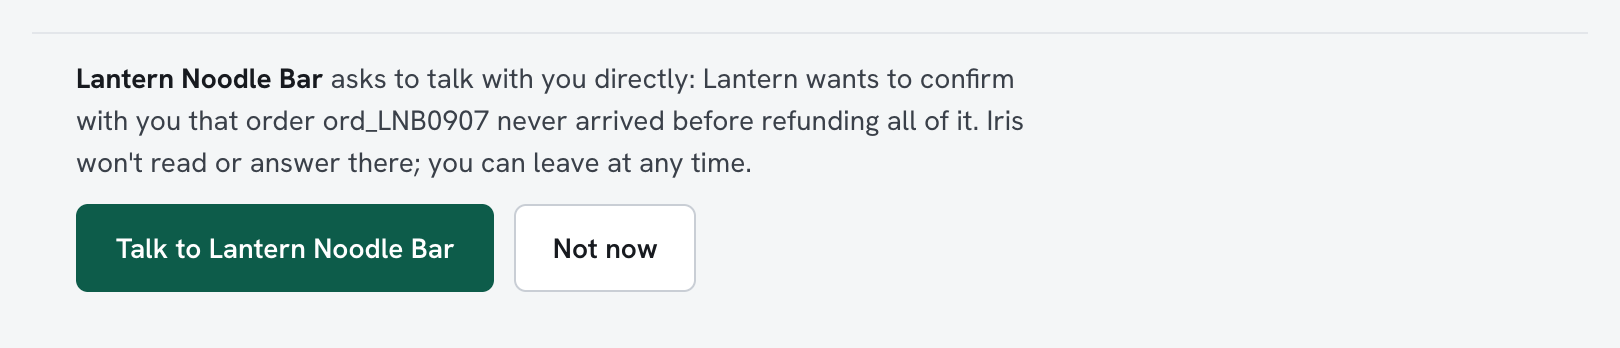
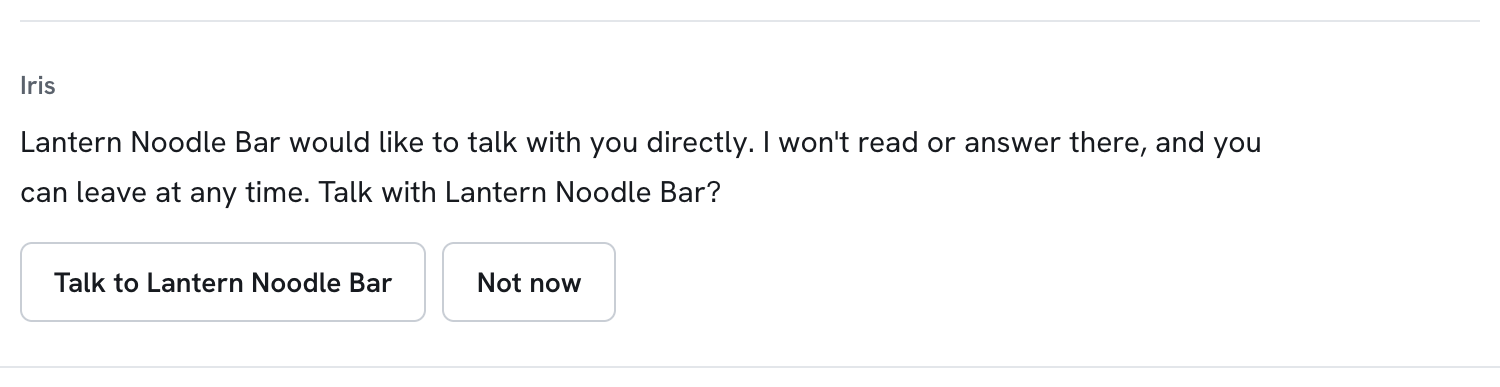
Show the invitation as Iris's question in Talking to the company yourself
Lantern's invitation is now a block in the conversation with Iris's own question, which Elena answers yes to; the refund is a card where it arrived, and Iris's notices are quoted as the live lab writes them. While the Direct Conversation is open Iris asks no approval question, so the approval stays the press of the button. Every image is retaken on 28 November; step 8 no longer shows a further question to Lantern.

diff --git a/docs/learn/how-it-works/talking-to-the-company-yourself.md b/docs/learn/how-it-works/talking-to-the-company-yourself.md
@@ -9,7 +9,8 @@ answers for her.
 
 This page follows that conversation screen by screen: Lantern's invitation,
 Elena's answer, the refund Lantern proposes, her approval, and her return to
-Iris. Every screenshot is from the live lab, taken on 26 November 2026. Before
+Iris. Every screenshot is from the live lab at
+[poppylab.dev](https://poppylab.dev), taken on 28 November 2026. Before
 it starts, Elena has signed in at Lantern and allowed Iris to propose changes,
 the two consents shown in [Changing an order](changing-an-order.md). The lab
 ran in demo mode, which answers its guided examples without an AI model, so
@@ -27,7 +28,7 @@ Iris sent a fixed report when Elena said that her order never arrived.
 
 ### 1. Report the order that never arrived
 
-![Elena writes that her last order never arrived. Lantern's agent answers that refunding all of order ord_LNB0907 needs a word with her first, and a card above the message box offers to talk to Lantern Noodle Bar](../../../apps/playground/public/learn-media/how-it-works/talking-to-the-company-yourself/01-report-the-order.webp "Lantern's agent does not refund the order. It asks to talk with the customer.")
+![Elena writes that her last order never arrived. Lantern's agent answers that refunding all of order ord_LNB0907 needs a word with her first. Iris then asks whether she wants to talk with Lantern Noodle Bar directly, with the buttons Talk to Lantern Noodle Bar and Not now](../../../apps/playground/public/learn-media/how-it-works/talking-to-the-company-yourself/01-report-the-order.webp "Lantern's agent does not refund the order. It asks to talk with the customer.")
 
 Elena writes: "My last order never arrived." Iris asks Lantern's own agent for
 her orders, finds the last delivery, and reports that none of it arrived.
@@ -79,29 +80,30 @@ talk:
 
 ### 2. Lantern asks, Elena decides
 
-![The card above the message box: Lantern Noodle Bar asks to talk with you directly, with its reason, and two buttons, Talk to Lantern Noodle Bar and Not now](../../../apps/playground/public/learn-media/how-it-works/talking-to-the-company-yourself/02-invitation.webp "The invitation gives Lantern's reason in Lantern's words, and Elena chooses.")
+![Iris says: Lantern Noodle Bar would like to talk with you directly. I won't read or answer there, and you can leave at any time. Talk with Lantern Noodle Bar? Two buttons read Talk to Lantern Noodle Bar and Not now](../../../apps/playground/public/learn-media/how-it-works/talking-to-the-company-yourself/02-invitation.webp "The invitation comes as Iris's question in the conversation, and Elena chooses.")
 
-The invitation sits above the message box, apart from the conversation. It
-gives Lantern's reason and says what accepting means: Iris will not read or
-answer there, and Elena can leave at any time.
+The invitation is a block of its own in the conversation, under Lantern's
+answer, which gives Lantern's reason in its words. Iris asks: "Lantern Noodle
+Bar would like to talk with you directly. I won't read or answer there, and
+you can leave at any time. Talk with Lantern Noodle Bar?"
 
-Lantern can ask for this conversation and cannot open it. Iris also asks in
-the chat whether Elena wants to talk with Lantern. The conversation opens when
-she presses the button or answers "yes", and Iris does not open one without
-her. If she chooses Not
+Lantern can ask for this conversation and cannot open it. The conversation
+opens when Elena presses the button or answers "yes", and Iris does not open
+one without her. If she chooses Not
 now, Iris tells Lantern that she is not available, and Lantern's agent answers
 with its phone number and the option of reporting the missing dishes one by
 one.
 
 ### 3. Accept the invitation
 
-![Lantern's first message in the direct conversation asks whether none of order ord_LNB0907 arrived. Iris says it does not read or answer here. A yellow bar says Elena is talking with Lantern Noodle Bar directly](../../../apps/playground/public/learn-media/how-it-works/talking-to-the-company-yourself/03-accepted.webp "Lantern speaks first. The message box now writes to Lantern.")
+![Elena answers yes. Lantern's first message in the direct conversation asks whether none of order ord_LNB0907 arrived, marked Direct, without Iris. Iris says: You're talking with Lantern Noodle Bar directly now. I don't read or answer here: what you type goes to Lantern Noodle Bar as your own words](../../../apps/playground/public/learn-media/how-it-works/talking-to-the-company-yourself/03-accepted.webp "Lantern speaks first. The message box now writes to Lantern.")
 
-Elena presses Talk to Lantern Noodle Bar. Lantern speaks first, with one
+Elena answers "yes" to Iris's question. Lantern speaks first, with one
 question: did none of the order arrive?
 
-The screen changes to show who Elena is writing to. Iris says once that it
-doesn't read or answer here. A yellow bar stays above the
+The screen changes to show who Elena is writing to. Iris says once: "You're
+talking with Lantern Noodle Bar directly now. I don't read or answer here:
+what you type goes to Lantern Noodle Bar as your own words." A yellow bar stays above the
 message box for as long as the Direct Conversation is open, the box itself
 reads "Message Lantern Noodle Bar", and every message in this conversation
 carries the label Direct, without Iris.
@@ -132,7 +134,7 @@ shows the requests.
 
 ### 4. Answer in your own words
 
-![Elena's answer, yes, is labelled You to Lantern Noodle Bar, Direct, without Iris. Lantern answers that it can refund 37 dollars once she approves, and a panel titled Needs you appears](../../../apps/playground/public/learn-media/how-it-works/talking-to-the-company-yourself/04-question-and-answer.webp "Elena's answer goes to Lantern as she typed it. Lantern answers with a refund that waits for her.")
+![Elena's answer, yes, is labelled You to Lantern Noodle Bar, Direct, without Iris. Lantern answers that it can refund 37 dollars once she approves, and a card from Lantern Noodle Bar below reads Waiting for you: Review refund, 37 dollars](../../../apps/playground/public/learn-media/how-it-works/talking-to-the-company-yourself/04-question-and-answer.webp "Elena's answer goes to Lantern as she typed it. Lantern answers with a refund that waits for her.")
 
 Elena types "yes". The line is headed "You → Lantern Noodle Bar": it went to
 Lantern as she wrote it, marked as written by a person. Iris did not rephrase
@@ -142,18 +144,19 @@ either.
 Lantern's agent reads one thing here, a yes or a no to the question it asked,
 and only from the customer herself. On yes it answers that it can refund the
 37 dollars, and that it will do so once she approves. The refund arrives as
-terms in a panel called Needs you, the same panel as for a change proposed
-through the API.
+terms on a card in the conversation, the same card as for a change proposed
+through the API. Iris asks no question about it here, because Iris does not
+read or answer in the Direct Conversation.
 
 ### 5. Read what you are approving
 
-![The approval panel: Review refund, approval required, the amount of 37 dollars in large type, Lantern's description, the exact terms with two shoyu ramen and one pork gyoza, an expiry time, and the buttons Approve and Decline](../../../apps/playground/public/learn-media/how-it-works/talking-to-the-company-yourself/05-exact-terms.webp "The terms come from Lantern. Elena approves these and no others.")
+![The proposal card: Review refund, waiting for you, the amount of 37 dollars in large type, Lantern's description, an expiry time, and the buttons Approve 37 dollars and Decline](../../../apps/playground/public/learn-media/how-it-works/talking-to-the-company-yourself/05-exact-terms.webp "The terms come from Lantern. Elena approves these and no others.")
 
-The panel shows what Lantern will do if Elena approves: refund all of order
-ord_LNB0907, both ramen and the gyoza, to the card used for the order. The
+The card shows what Lantern will do if Elena approves: refund all of order
+ord_LNB0907 to the card used for the order. All exact terms, one click away,
+lists both ramen and the gyoza. The
 amount, 37 dollars, stands at the top in large type. The paragraph that begins
 "Lantern Noodle Bar says" is the company's own description, shown as written.
-All exact terms is opened in the screenshot.
 
 Talking to Lantern directly changes nothing about approvals. This one covers
 this revision of the terms and no other, and it was good for ten minutes.
@@ -178,12 +181,12 @@ step 4:
 
 ### 6. Approve
 
-![Under the conversation the entry Review refund now reads Completed. Without being opened it shows what Lantern says, Refunded 37 dollars for order ord_LNB0907, and the line Approved by you](../../../apps/playground/public/learn-media/how-it-works/talking-to-the-company-yourself/06-approved.webp "Lantern refunded the order when the approval arrived, and said so.")
+![The card Review refund now reads Approved by you. Without being opened it shows what Lantern says, Refunded 37 dollars for order ord_LNB0907](../../../apps/playground/public/learn-media/how-it-works/talking-to-the-company-yourself/06-approved.webp "Lantern refunded the order when the approval arrived, and said so.")
 
 Elena presses Approve $37.00. Iris sends Lantern her approval for exactly
 those terms, in the same Direct Conversation. Lantern checks it, makes the
-refund and confirms it. The panel becomes an entry marked Completed. Without
-being opened, the entry shows Lantern's confirmation and who approved.
+refund and confirms it. The card stays where it arrived and reads Approved
+by you. Without being opened, it shows Lantern's confirmation.
 
 The approval is the press of the button. In the Direct Conversation what
 Elena types goes to Lantern, not to Iris, so a sentence there is not an
@@ -202,7 +205,7 @@ the company checks.
 
 ### 7. Reload the page
 
-![After a reload the chat shows the same conversation: Lantern's question with its Data opened, Iris's notice with the four steps under What Iris did, Elena's line headed You to Lantern Noodle Bar with the answer yes, Lantern's offer, and the Completed refund. The yellow bar and the Leave and go back to Iris button are still there](../../../apps/playground/public/learn-media/how-it-works/talking-to-the-company-yourself/07-after-reload.webp "After a reload Elena is still in the Direct Conversation, and both sides of it are still shown.")
+![After a reload the chat shows the same conversation: Lantern's question, Iris's notice, Elena's line headed You to Lantern Noodle Bar with the answer yes, Lantern's offer, and the approved refund. The yellow bar and the Leave and go back to Iris button are still there](../../../apps/playground/public/learn-media/how-it-works/talking-to-the-company-yourself/07-after-reload.webp "After a reload Elena is still in the Direct Conversation, and both sides of it are still shown.")
 
 Elena reloads the page in the middle of the Direct Conversation. She is still
 in it afterwards: the yellow bar is there, the message box still writes to
@@ -211,10 +214,10 @@ Lantern, and the next thing she types will again go as her own words.
 The conversation is still on the screen as well, line for line. Iris keeps a
 record of what the page showed and shows it again after a reload: Lantern's
 question and its offer, each marked Direct, without Iris; Elena's own line,
-headed "You → Lantern Noodle Bar"; Iris's notice; and the Completed refund
+headed "You → Lantern Noodle Bar"; Iris's notice; and the approved refund
 with Lantern's confirmation. The Data and What Iris did disclosures open as
-before, and two of them are opened in the screenshot. A reload while the
-refund is still waiting keeps the approval panel too.
+before. A reload while the refund is still waiting keeps its card waiting
+too.
 
 The same record is what Elena sees if she opens this conversation later from
 the History view. The Inspector view lists the calls of the conversation
@@ -222,15 +225,11 @@ again in both cases.
 
 ### 8. Leave, and Iris comes back
 
-![Elena asks when the refund will reach her card. Lantern's agent answers that it only answers questions it asked and gives a phone number. Iris then says she has left the direct conversation and Iris is back. The Completed refund stays under the conversation](../../../apps/playground/public/learn-media/how-it-works/talking-to-the-company-yourself/08-leaving.webp "Lantern's agent does not repeat its question. Elena leaves, and the message box writes to Iris again.")
-
-Elena asks one more thing: when will the refund reach her card? Lantern's
-agent has had its answer and does not ask its question again. It says that
-here it only answers questions it asked, and gives the phone number for
-anything else.
+![Under Lantern's offer and the approved refund, Iris says: You've left the direct conversation with Lantern Noodle Bar. I'm back. Above the message box a link reads Talk to Lantern Noodle Bar yourself](../../../apps/playground/public/learn-media/how-it-works/talking-to-the-company-yourself/08-leaving.webp "Elena leaves, and the message box writes to Iris again.")
 
 Elena presses Leave and go back to Iris. Iris closes the Direct Conversation
-at Lantern and says so. The yellow bar is gone and the message box reads "Ask
+at Lantern and says: "You've left the direct conversation with Lantern
+Noodle Bar. I'm back." The yellow bar is gone and the message box reads "Ask
 Iris" again. The link above it lets Elena start a Direct Conversation herself
 later, without waiting for Lantern to ask.
 
